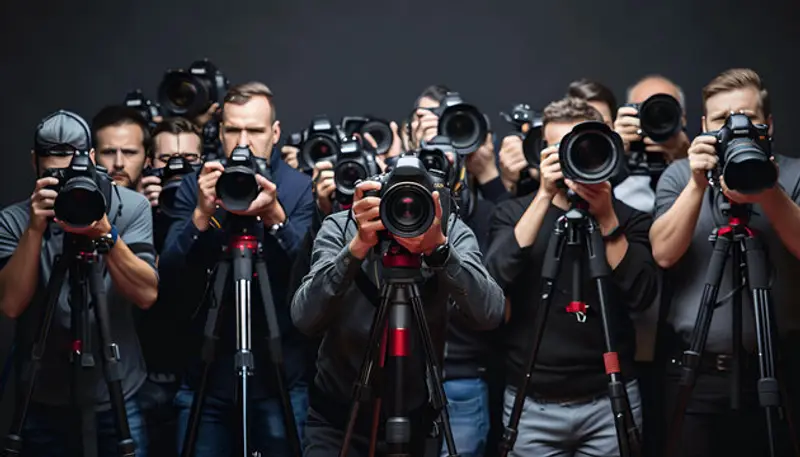
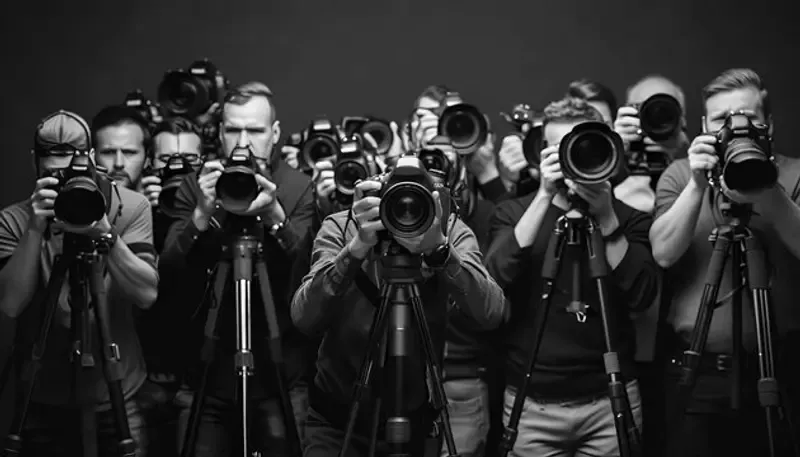
Committee pages grow out of their tiles; hero frame, gold stats, card moon
- Opening a committee from the Committees page grows its tile into the
  page header while the other tiles fade, and back again (cross-document
  view transitions, a shared name per committee). Not Doomsday.
- The homepage hero's gold frame stays inside the hero, its lines
  crossing at the corners.
- Delegates and Chapter in gold.
- The Social Night card has the rendered moon rising out of its corner.
- The closing banner has two plain gold lines.
- The IP Photography photo is black and white.

Claude-Session: https://claude.ai/code/session_01W4GBLoNJDgVSVPXDqy1NYx

diff --git a/src/css/pages/home.css b/src/css/pages/home.css
@@ -658,6 +658,17 @@
   color: transparent;
 }
 
+/* Delegates and Chapter in the poster's gold (PLAN.md F26) */
+.stat--gold::before {
+  background: radial-gradient(circle, rgb(var(--gilt-rgb) / 0.16) 0%, transparent 70%);
+}
+
+.stat--gold .stat__num {
+  background: var(--grad-number-gold);
+  -webkit-background-clip: text;
+  background-clip: text;
+}
+
 .stat__label {
   position: relative;
   font-size: var(--fs-label);
@@ -1418,44 +1429,52 @@
 
 .moon {
   position: absolute;
-  top: 28px;
-  right: 28px;
-  width: 52px;
-  height: 52px;
+  top: -104px;
+  right: -104px;
+  width: 260px;
+  aspect-ratio: 1;
+  overflow: hidden;
   border-radius: 50%;
-  background: var(--ink);
   box-shadow:
-    0 0 22px rgb(var(--sn-gold-rgb) / 0.35),
-    0 0 60px rgb(var(--sn-gold-rgb) / 0.15);
+    0 0 40px rgb(var(--sn-gold-rgb) / 0.32),
+    0 0 120px rgb(var(--sn-gold-rgb) / 0.16);
+  pointer-events: none;
 }
 
-/* Faint craters */
-.moon::before,
+.moon img {
+  display: block;
+  width: 100%;
+  height: 100%;
+}
+
+/* Warmer on the side away from the light, like the Social Night page's moon */
 .moon::after {
   content: "";
   position: absolute;
+  inset: 0;
   border-radius: 50%;
-  background: rgb(var(--sn-amber-rgb) / 0.14);
+  box-shadow: inset -18px -14px 44px rgb(var(--sn-amber-rgb) / 0.22);
 }
 
-.moon::before {
-  top: 12px;
-  left: 14px;
-  width: 12px;
-  height: 12px;
-}
-
-.moon::after {
-  right: 11px;
-  bottom: 13px;
-  width: 8px;
-  height: 8px;
+/* The date keeps clear of the moon */
+.card--night .card__tag {
+  max-width: calc(100% - 130px);
 }
 
 @media (max-width: 768px) {
   .debate__grid {
     grid-template-columns: 1fr;
     gap: 14px;
+  }
+
+  .moon {
+    top: -64px;
+    right: -64px;
+    width: 160px;
+  }
+
+  .card--night .card__tag {
+    max-width: calc(100% - 84px);
   }
 }
 

diff --git a/src/css/components.css b/src/css/components.css
@@ -1583,11 +1583,56 @@ html.is-locked {
   pointer-events: none;
 }
 
-/* A whole tilted rectangle, like the poster's */
+/* A whole tilted rectangle, like the poster's, with its lines running a little past each
+   other at the corners. Its top and bottom leave room for the tilt (--tilt: half the frame's
+   width times tan 5 degrees, plus a little), so no corner is cut off by the edge of the
+   section, and the top clears the nav. */
 .gilt-frame--full {
-  inset: 9% 5% 11% 4%;
-  border: 1px solid rgb(var(--gilt-rgb) / 0.45);
+  --tilt: 4.4vw;
+  top: calc(var(--tilt) + 96px);
+  right: 6%;
+  bottom: calc(var(--tilt) + 28px);
+  left: 6%;
   transform: rotate(-5deg);
+}
+
+.gilt-frame--full::before,
+.gilt-frame--full::after {
+  content: "";
+  position: absolute;
+}
+
+.gilt-frame--full::before {
+  inset: 0 -28px;
+  border-block: 1px solid rgb(var(--gilt-rgb) / 0.45);
+}
+
+.gilt-frame--full::after {
+  inset: -28px 0;
+  border-inline: 1px solid rgb(var(--gilt-rgb) / 0.45);
+}
+
+/* Two plain lines, above and below, fading out at both ends */
+.gilt-frame--lines {
+  inset: 22% 10%;
+}
+
+.gilt-frame--lines::before,
+.gilt-frame--lines::after {
+  content: "";
+  position: absolute;
+  right: 0;
+  left: 0;
+  height: 1px;
+  background: linear-gradient(90deg, transparent, rgb(var(--gilt-rgb) / 0.7) 30%, rgb(var(--gilt-rgb) / 0.7) 70%, transparent);
+}
+
+.gilt-frame--lines::before {
+  top: 0;
+}
+
+.gilt-frame--lines::after {
+  bottom: 0;
 }
 
 /* One corner, top right, its lines fading out to the left and downwards */

diff --git a/src/css/pages/committees.css b/src/css/pages/committees.css
@@ -615,3 +615,45 @@
     padding: 20px 18px;
   }
 }
+
+/* ---------- Opening a committee (PLAN.md F26) ---------- */
+
+/* The committee's tile grows into its page's header, and back again when you return; the
+   other tiles fade away. Both carry the same view-transition-name (committee-<slug>, set in
+   the templates); Doomsday has none, as it's getting an animation of its own. The default
+   crossfade covers browsers without view transitions classes, and reduced motion turns page
+   transitions off altogether (base.css). */
+.tile__visual,
+.c-hero {
+  view-transition-class: committee;
+}
+
+::view-transition-group(*.committee) {
+  animation-duration: 0.7s;
+  animation-timing-function: cubic-bezier(0.2, 0.8, 0.2, 1);
+}
+
+/* The photo fills the box all the way through, whatever its shape, instead of stretching */
+::view-transition-old(*.committee),
+::view-transition-new(*.committee) {
+  height: 100%;
+  object-fit: cover;
+  animation-duration: 0.5s;
+  animation-timing-function: var(--ease-standard);
+}
+
+/* The tile's own picture gives way to the header's quickly; the header settles in after */
+::view-transition-new(*.committee) {
+  animation-delay: 0.12s;
+}
+
+/* Tiles that aren't opening just fade away */
+::view-transition-old(*.committee):only-child {
+  animation-duration: 0.22s;
+  animation-delay: 0s;
+}
+
+::view-transition-new(*.committee):only-child {
+  animation-duration: 0.35s;
+  animation-delay: 0.15s;
+}

diff --git a/src/css/tokens.css b/src/css/tokens.css
@@ -32,6 +32,7 @@
   /* The 2026 poster's gold (7 October): thin lines, frame corners, small labels and card
      edges. Teal stays the highlight colour for buttons and links. */
   --gilt: #d6b25e;
+  --gilt-light: #f2dfa6;
   /* The poster's blue laurels */
   --laurel: #3482c4;
   --sand: #bc9a6e;
@@ -90,6 +91,7 @@
   --grad-hairline: linear-gradient(90deg, transparent, rgb(var(--gilt-rgb) / 0.45), transparent);
   --grad-bar: linear-gradient(90deg, var(--gilt), transparent);
   --grad-word: linear-gradient(135deg, var(--teal) 0%, var(--teal-light) 60%); /* highlighted theme word */
+  --grad-number-gold: linear-gradient(135deg, var(--gilt) 0%, var(--gilt-light) 55%, var(--gilt) 100%);
   --grad-night: linear-gradient(150deg, var(--sn-brown-1) 0%, var(--sn-brown-2) 50%, var(--sn-brown-3) 100%);
   --grad-sky: linear-gradient(180deg, var(--blue-900) 0%, var(--blue-900) 35%, var(--sn-brown-3) 100%); /* Social Night hero (SPEC 9.8) */
 

diff --git a/PLAN.md b/PLAN.md
@@ -242,6 +242,7 @@ These replace the spec where they differ from it.
 | F23 | **7 October, address:** the site's address is **oakridgejmun.in**; oakridgejmun.com is owned by someone else. | `site.json` → `url`, which sets the canonical links, link previews, `sitemap.xml` and `robots.txt`; `docs/DEPLOY.md` and `docs/REPLACE_ME.md` updated. |
 | F24 | **7 October, fixes:** Yashwanth Addala (spelling). The homepage photo intro is 1.9 screens of scrolling instead of 2.5. The committee ring: up-and-down scrolling always scrolls the page; sideways scrolling on a trackpad (or Shift and the wheel) turns it the way a sideways list moves, as do dragging and swiping; the ring is only as wide as itself, so the page either side of it is plain page. "More than debate": the two cards share the width half and half. | `site.json` → `gallery.screens`; the full-turn wheel hold from 6 October is gone. The click animation for committee pages (from your video) waits for the video, which didn't come through. |
 | F25 | **7 October, poster colours:** gold accents from the 2026 "We are back" poster, with the backgrounds unchanged and teal still the colour of buttons and links: small labels, footer headings, card tags and edges, title bars and hairlines in the poster's gold; a thin tilted gold frame and two faint blue laurel branches in the homepage hero; a gold frame corner and a laurel in each page header; a gold corner on the closing banner and committee pages; a small gold sprig and lines in the footer. Registration is open: the Register buttons, the top bar and the FAQ link to the registration page on oakridge.in. The conference email is j.mun@oakridge.in. | Colours: `--gilt` and `--laurel` in `tokens.css`; decorations in `partials/gilt.njk`, styles under "Gold accents" in `components.css`. The poster's tagline isn't used (SPEC 4.1). |
+| F26 | **7 October, committee pages and polish:** opening a committee from the Committees page grows its tile into the committee page's header while the other tiles fade away, and going back shrinks it into its tile again (from your OakMUN recording, smoother: one continuous move instead of a cut to black). Not Doomsday, which is getting its own. The homepage hero's gold frame stays inside the hero, with its lines crossing at the corners; Delegates and Chapter are in gold; the Social Night card has the rendered moon rising out of its top corner; the closing banner has two plain gold lines; the IP Photography photo is black and white. | Cross-document view transitions with a shared name per committee (`committee-<slug>` on the tile's picture and the page header; styles at the end of `committees.css`). Chrome, Edge and Safari 18.2+; other browsers load the page as before, and reduced motion turns it off. The Committees grid and the committee header photo no longer fade in on load, so the move has something to land on. The IP Photography photo was converted in place (the colour original is in the git history). |
 | F17 | **4 October, smooth scrolling off:** Lenis is removed, so pages scroll natively everywhere. A Chrome trace from your Windows laptop (144 Hz screen, viewed in the Claude preview) showed half the frames going out without the page having moved: Lenis moves the page from the main thread every frame, which shares time with everything else on the page, and it eases behind the wheel by design. Native scrolling runs on its own thread and stops when the wheel stops. | Overrides SPEC 5 and the OakMUN setting (lerp 0.11). Anchor links still land below the nav through `scroll-padding-top`. |
 
 ---
